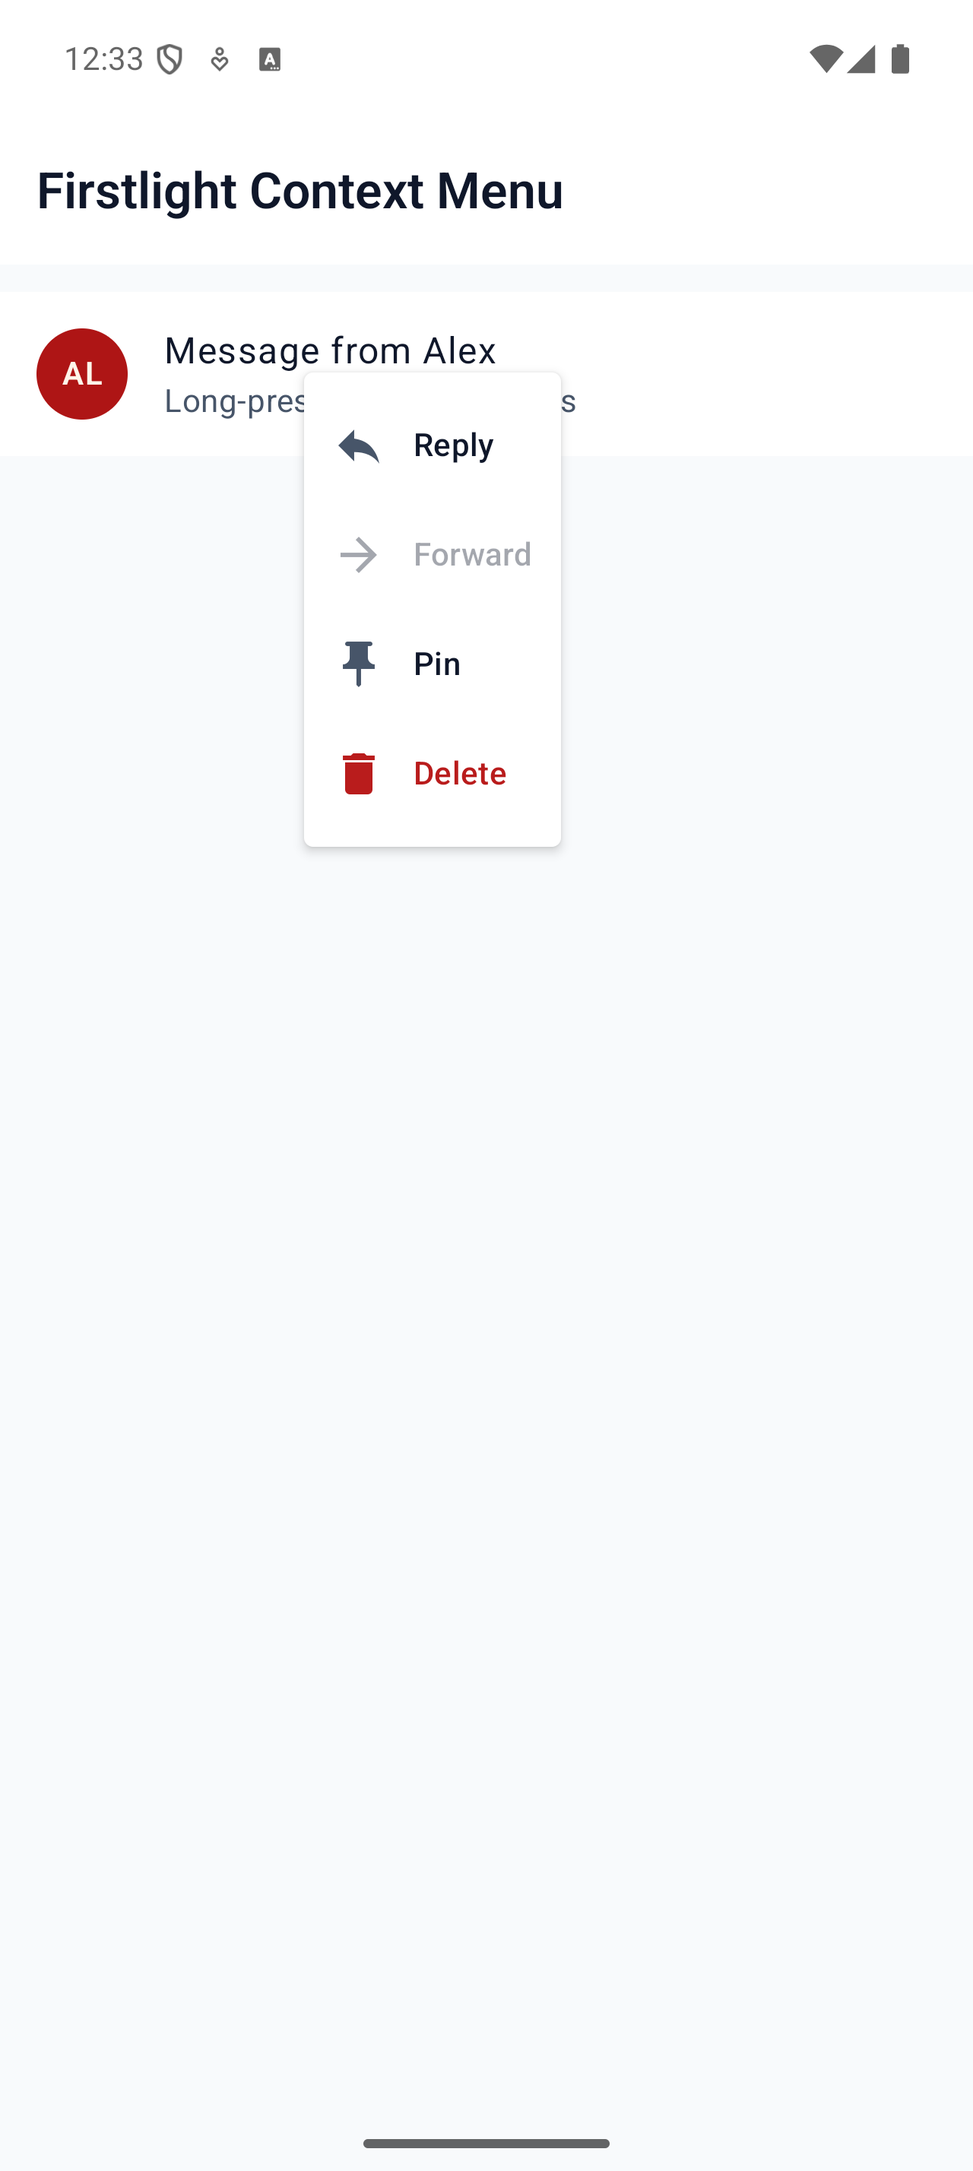
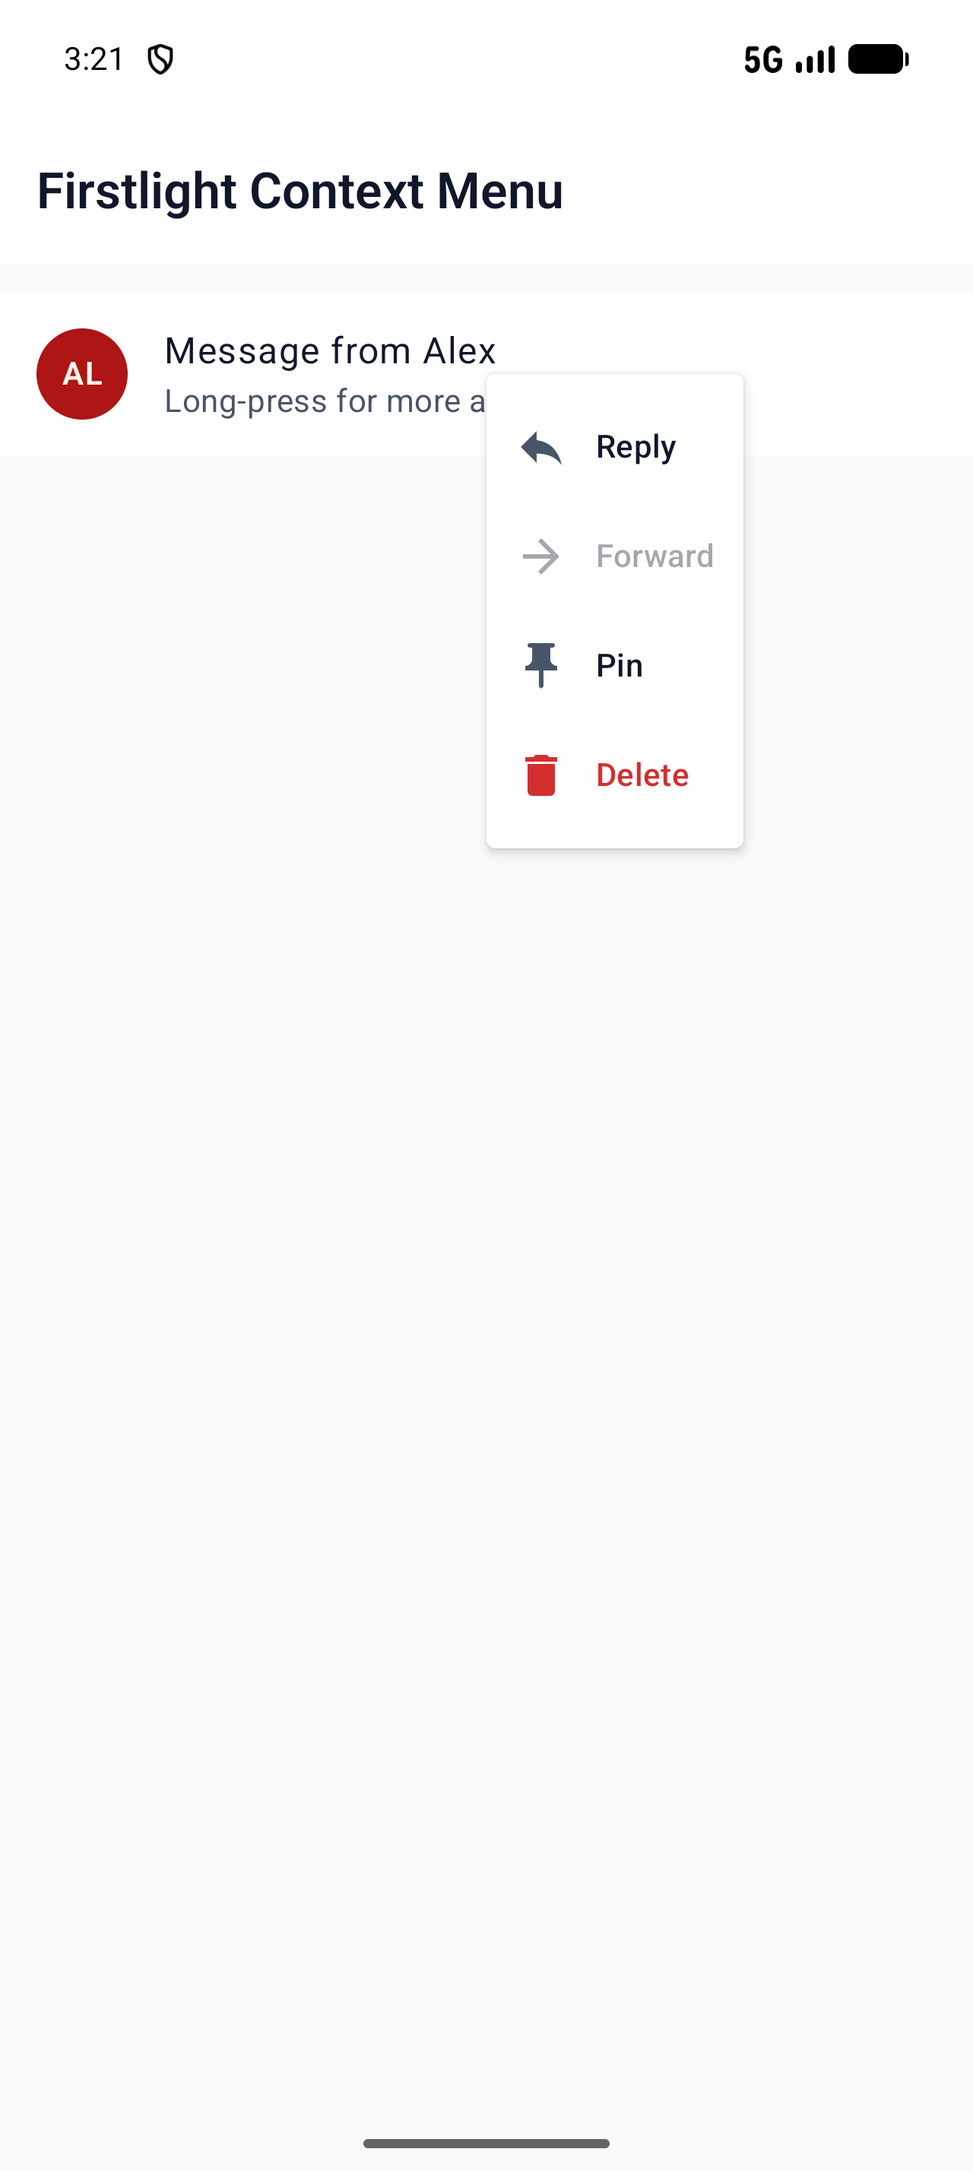
Let docs screenshots long-press, and capture the context menu open
A screenshot manifest entry can declare long-press {text, until}. Before
each capture the guard long-presses the centre of the element labelled
text, then waits for until, such as a menu item, and fails without
publishing when it never shows. iOS finds the element with AXe's
describe-ui and holds axe touch for 1.5 s, since the Simulator has no
input command; Android uses uiautomator bounds and a held input swipe.
Android joins a merged row's text with ". ", iOS with ", ", so both
separators match after the label.

List Item Context Menu uses it, with its real nav title as ready text,
and its four screenshots are recaptured with the menu open, so Android's
Delete shows the new destructive red. The screenshot workflow spec and
skill describe the key.

Amp-Thread-ID: https://ampcode.com/threads/T-01a1dca0-8660-73ca-b541-c07f690843ea

diff --git a/bin/support/DocumentationScreenshotCapture.php b/bin/support/DocumentationScreenshotCapture.php
@@ -101,6 +101,7 @@ final class DocumentationScreenshotCapture
                     "ios-{$appearance}-appearance",
                     ['xcrun', 'simctl', 'ui', $request->iosUdid, 'appearance', $appearance],
                 );
+                $this->openIosLongPress($request->iosUdid, $manifest, "ios-{$appearance}");
                 $this->captureStable(
                     "ios-{$appearance}",
                     ['xcrun', 'simctl', 'io', $request->iosUdid, 'screenshot'],
@@ -115,6 +116,7 @@ final class DocumentationScreenshotCapture
                     ['adb', '-s', $request->androidSerial, 'shell', 'cmd', 'uimode', 'night', $mode],
                 );
                 $this->assertAndroidApplicationForeground($request->androidSerial, $androidAppId, "before {$appearance} capture");
+                $this->openAndroidLongPress($request->androidSerial, $manifest, "android-{$appearance}");
                 $this->captureStable(
                     "android-{$appearance}",
                     ['adb', '-s', $request->androidSerial, 'exec-out', 'screencap', '-p'],
@@ -327,6 +329,7 @@ final class DocumentationScreenshotCapture
                         ['xcrun', 'simctl', 'launch', $request->iosUdid, $androidAppId],
                     );
                     $this->execute("ios-{$appearance}-{$slug}-route-wait", ['sleep', '3']);
+                    $this->openIosLongPress($request->iosUdid, $component['manifest'], "ios-{$appearance}-{$slug}");
                     $this->captureStable(
                         "ios-{$appearance}-{$slug}",
                         ['xcrun', 'simctl', 'io', $request->iosUdid, 'screenshot'],
@@ -363,6 +366,7 @@ final class DocumentationScreenshotCapture
                     );
                     $this->assertAndroidApplicationForeground($request->androidSerial, $androidAppId, "before {$appearance} {$slug} capture");
                     $this->assertAndroidCaptureReady($request->androidSerial, $androidAppId, $component['name'], $component['manifest']);
+                    $this->openAndroidLongPress($request->androidSerial, $component['manifest'], "android-{$appearance}-{$slug}");
                     $this->captureStable(
                         "android-{$appearance}-{$slug}",
                         ['adb', '-s', $request->androidSerial, 'exec-out', 'screencap', '-p'],
@@ -510,6 +514,14 @@ final class DocumentationScreenshotCapture
         }
         if (array_key_exists('ready-text', $entry) && (! is_string($entry['ready-text']) || trim($entry['ready-text']) === '')) {
             throw new RuntimeException("Invalid screenshot readiness text for {$slug}.");
+        }
+        if (array_key_exists('long-press', $entry)) {
+            $press = $entry['long-press'];
+            foreach (['text', 'until'] as $key) {
+                if (! is_array($press) || ! is_string($press[$key] ?? null) || trim($press[$key]) === '') {
+                    throw new RuntimeException("Screenshot long-press for {$slug} needs non-empty `text` and `until` strings.");
+                }
+            }
         }
 
         return [$slug, $entry];
@@ -750,6 +762,134 @@ final class DocumentationScreenshotCapture
         }
 
         throw new RuntimeException("Android capture route did not render: {$title}");
+    }
+
+    /**
+     * Long-presses the element labelled `long-press.text`, such as a List Item
+     * with a context menu, and waits until `long-press.until`, such as one of
+     * the menu's items, is on screen, so the capture shows the menu open. The
+     * Simulator has no input command of its own, so iOS uses AXe
+     * (`brew install cameroncooke/axe/axe`). Nothing happens when `until` is
+     * already showing.
+     *
+     * @param  array<string, mixed>  $manifest
+     */
+    private function openIosLongPress(string $udid, array $manifest, string $label): void
+    {
+        $press = $manifest['long-press'] ?? null;
+        if (! is_array($press)) {
+            return;
+        }
+        if ($this->iosElementCenter($udid, $press['until'], "{$label}-long-press-check") !== null) {
+            return;
+        }
+
+        $center = null;
+        for ($attempt = 1; $attempt <= 10 && $center === null; $attempt++) {
+            if ($attempt > 1) {
+                $this->execute("{$label}-long-press-target-wait-{$attempt}", ['sleep', '1']);
+            }
+            $center = $this->iosElementCenter($udid, $press['text'], "{$label}-long-press-target-{$attempt}");
+        }
+        if ($center === null) {
+            throw new RuntimeException("iOS long-press target is not on screen: {$press['text']}");
+        }
+
+        $this->execute("{$label}-long-press", [
+            'axe', 'touch', '-x', (string) $center[0], '-y', (string) $center[1],
+            '--down', '--up', '--delay', '1.5', '--udid', $udid,
+        ]);
+
+        for ($attempt = 1; $attempt <= 10; $attempt++) {
+            if ($this->iosElementCenter($udid, $press['until'], "{$label}-long-press-open-{$attempt}") !== null) {
+                return;
+            }
+            $this->execute("{$label}-long-press-open-wait-{$attempt}", ['sleep', '1']);
+        }
+
+        throw new RuntimeException("iOS long press did not show: {$press['until']}");
+    }
+
+    /** @return array{0: int, 1: int}|null The centre, in points, of the first element labelled $text. */
+    private function iosElementCenter(string $udid, string $text, string $label): ?array
+    {
+        try {
+            $tree = json_decode($this->execute($label, ['axe', 'describe-ui', '--udid', $udid])['stdout'], true, flags: JSON_THROW_ON_ERROR);
+        } catch (JsonException $exception) {
+            throw new RuntimeException('Unable to parse the iOS accessibility tree.', previous: $exception);
+        }
+
+        $pending = is_array($tree) ? (array_is_list($tree) ? $tree : [$tree]) : [];
+        while ($pending !== []) {
+            $element = array_shift($pending);
+            if (! is_array($element)) {
+                continue;
+            }
+            $name = (string) ($element['AXLabel'] ?? '');
+            $frame = $element['frame'] ?? null;
+            if (($name === $text || str_starts_with($name, $text.',')) && is_array($frame)) {
+                return [
+                    (int) round((float) $frame['x'] + (float) $frame['width'] / 2),
+                    (int) round((float) $frame['y'] + (float) $frame['height'] / 2),
+                ];
+            }
+            array_push($pending, ...(is_array($element['children'] ?? null) ? $element['children'] : []));
+        }
+
+        return null;
+    }
+
+    /**
+     * Android counterpart of openIosLongPress(): a held `input swipe` on the
+     * centre of the node whose text or content description is
+     * `long-press.text`.
+     *
+     * @param  array<string, mixed>  $manifest
+     */
+    private function openAndroidLongPress(string $serial, array $manifest, string $label): void
+    {
+        $press = $manifest['long-press'] ?? null;
+        if (! is_array($press)) {
+            return;
+        }
+        if ($this->androidNodeCenter($serial, $press['until'], "{$label}-long-press-check") !== null) {
+            return;
+        }
+
+        $center = $this->androidNodeCenter($serial, $press['text'], "{$label}-long-press-target");
+        if ($center === null) {
+            throw new RuntimeException("Android long-press target is not on screen: {$press['text']}");
+        }
+
+        [$x, $y] = array_map('strval', $center);
+        $this->execute("{$label}-long-press", ['adb', '-s', $serial, 'shell', 'input', 'swipe', $x, $y, $x, $y, '1500']);
+
+        for ($attempt = 1; $attempt <= 10; $attempt++) {
+            if ($this->androidNodeCenter($serial, $press['until'], "{$label}-long-press-open-{$attempt}") !== null) {
+                return;
+            }
+            $this->execute("{$label}-long-press-open-wait-{$attempt}", ['adb', '-s', $serial, 'shell', 'sleep', '1']);
+        }
+
+        throw new RuntimeException("Android long press did not show: {$press['until']}");
+    }
+
+    /** @return array{0: int, 1: int}|null The centre, in pixels, of the first node labelled $text. */
+    private function androidNodeCenter(string $serial, string $text, string $label): ?array
+    {
+        $hierarchy = $this->execute($label, ['adb', '-s', $serial, 'exec-out', 'uiautomator', 'dump', '/dev/tty'])['stdout'];
+        $escaped = htmlspecialchars($text, ENT_QUOTES | ENT_XML1);
+
+        preg_match_all('/<node\b[^>]*>/', $hierarchy, $nodes);
+        foreach ($nodes[0] as $node) {
+            $named = str_contains($node, 'text="'.$escaped.'"')
+                || preg_match('/content-desc="'.preg_quote($escaped, '/').'(?:[,.][^"]*)?"/', $node) === 1;
+            if ($named && preg_match('/bounds="\[(\d+),(\d+)\]\[(\d+),(\d+)\]"/', $node, $bounds) === 1) {
+                return [intdiv((int) $bounds[1] + (int) $bounds[3], 2), intdiv((int) $bounds[2] + (int) $bounds[4], 2)];
+            }
+        }
+
+        return null;
     }
 
     /** @param array<string, mixed> $manifest */

diff --git a/tests/Feature/DocumentationScreenshotCaptureTest.php b/tests/Feature/DocumentationScreenshotCaptureTest.php
@@ -513,6 +513,125 @@ it('uses manifest readiness text when a modal hides the Android route title', fu
     }
 });
 
+/**
+ * A capture fixture whose Context Menu entry long-presses "Message from Alex"
+ * until "Pin" shows, on a runner whose menu opens only when $opens is true.
+ *
+ * @return array{0: array{package: string, showcase: string}, 1: FakeCaptureCommandRunner}
+ */
+function longPressCaptureFixture(bool $opens = true): array
+{
+    $fixture = screenshotCaptureFixture();
+    $manifestPath = $fixture['package'].'/spec/screenshots.json';
+    $manifest = json_decode((string) file_get_contents($manifestPath), true);
+    $manifest['components']['context-menu'] = [
+        'route' => '/captures/context-menu',
+        'test' => 'php artisan test tests/Feature/ContextMenuCaptureTest.php',
+        'long-press' => ['text' => 'Message from Alex', 'until' => 'Pin'],
+        'outputs' => array_map(
+            fn (string $variant): string => "docs/screenshots/context-menu/{$variant}.png",
+            ['ios-light' => 'ios-light', 'ios-dark' => 'ios-dark', 'android-light' => 'android-light', 'android-dark' => 'android-dark'],
+        ),
+    ];
+    file_put_contents($manifestPath, json_encode($manifest, JSON_PRETTY_PRINT | JSON_UNESCAPED_SLASHES));
+    mkdir($fixture['package'].'/docs/screenshots/context-menu', 0777, true);
+
+    [$normalRunner] = successfulCaptureRunner($fixture);
+    $iosOpen = false;
+    $androidOpen = false;
+    $runner = new FakeCaptureCommandRunner(function (array $command, ?string $cwd) use ($normalRunner, $opens, &$iosOpen, &$androidOpen): array {
+        $ok = fn (string $stdout = ''): array => ['exitCode' => 0, 'stdout' => $stdout, 'stderr' => ''];
+
+        if ($command === ['axe', 'describe-ui', '--udid', 'IOS-1']) {
+            $row = ['AXLabel' => 'Message from Alex, Long-press for more actions', 'frame' => ['x' => 16, 'y' => 100, 'width' => 368, 'height' => 41], 'children' => []];
+            $menu = $iosOpen ? [['AXLabel' => 'Pin', 'frame' => ['x' => 40, 'y' => 300, 'width' => 250, 'height' => 44]]] : [];
+
+            return $ok(json_encode([['AXLabel' => 'Firstlight Showcase', 'frame' => ['x' => 0, 'y' => 0, 'width' => 402, 'height' => 874], 'children' => [$row, ...$menu]]]));
+        }
+        if (array_slice($command, 0, 2) === ['axe', 'touch']) {
+            $iosOpen = $opens;
+
+            return $ok();
+        }
+        if ($command === ['adb', '-s', 'emulator-5554', 'exec-out', 'uiautomator', 'dump', '/dev/tty']) {
+            $menu = $androidOpen ? '<node text="Pin" package="dev.firstlightui.showcase" bounds="[48,900][700,1044]" />' : '';
+
+            return $ok('<hierarchy><node text="Firstlight Context Menu" package="dev.firstlightui.showcase" bounds="[0,100][1080,220]" />'
+                .'<node index="0" text="" content-desc="Message from Alex. Long-press for more actions" package="dev.firstlightui.showcase" bounds="[0,250][1080,351]" />'
+                .$menu.'</hierarchy>');
+        }
+        if (array_slice($command, 0, 6) === ['adb', '-s', 'emulator-5554', 'shell', 'input', 'swipe']) {
+            $androidOpen = $opens;
+
+            return $ok();
+        }
+        if ($command === ['sleep', '1'] || str_contains(implode(' ', $command), 'ContextMenuCaptureTest.php')) {
+            return $ok();
+        }
+
+        return $normalRunner->run($command, $cwd);
+    });
+
+    return [$fixture, $runner];
+}
+
+function contextMenuCaptureRequest(array $fixture): CaptureRequest
+{
+    return new CaptureRequest('ContextMenu', $fixture['package'], $fixture['showcase'], 'IOS-1', 'emulator-5554', false, false);
+}
+
+it('long-presses the manifest target on both platforms and captures the opened menu', function () {
+    [$fixture, $runner] = longPressCaptureFixture();
+
+    try {
+        $report = (new DocumentationScreenshotCapture($runner, $fixture['package']))->capture(contextMenuCaptureRequest($fixture));
+        $commands = array_column($runner->calls, 'command');
+        $iosPresses = array_keys(array_filter($commands, fn (array $command): bool => array_slice($command, 0, 2) === ['axe', 'touch']));
+        $androidPresses = array_keys(array_filter($commands, fn (array $command): bool => array_slice($command, 4, 2) === ['input', 'swipe']));
+        $firstIosShot = array_key_first(array_filter($commands, fn (array $command): bool => array_slice($command, 2, 2) === ['io', 'IOS-1']));
+        $firstAndroidShot = array_key_first(array_filter($commands, fn (array $command): bool => in_array('screencap', $command, true)));
+
+        // The centre of the row's frame and bounds; once open, the menu is not pressed again.
+        expect($iosPresses)->toHaveCount(1)
+            ->and($commands[$iosPresses[0]])->toBe(['axe', 'touch', '-x', '200', '-y', '121', '--down', '--up', '--delay', '1.5', '--udid', 'IOS-1'])
+            ->and($iosPresses[0])->toBeLessThan($firstIosShot)
+            ->and($androidPresses)->toHaveCount(1)
+            ->and($commands[$androidPresses[0]])->toBe(['adb', '-s', 'emulator-5554', 'shell', 'input', 'swipe', '540', '300', '540', '300', '1500'])
+            ->and($androidPresses[0])->toBeLessThan($firstAndroidShot)
+            ->and(array_map('is_file', $report->outputs))->each->toBeTrue();
+    } finally {
+        removeScreenshotCaptureFixture($fixture);
+    }
+});
+
+it('publishes nothing when a long press does not open its menu', function () {
+    [$fixture, $runner] = longPressCaptureFixture(opens: false);
+
+    try {
+        expect(fn () => (new DocumentationScreenshotCapture($runner, $fixture['package']))->capture(contextMenuCaptureRequest($fixture)))
+            ->toThrow(RuntimeException::class, 'iOS long press did not show: Pin')
+            ->and(glob($fixture['package'].'/docs/screenshots/context-menu/*.png'))->toBe([]);
+    } finally {
+        removeScreenshotCaptureFixture($fixture);
+    }
+});
+
+it('rejects a long press without the text that shows it worked', function () {
+    [$fixture, $runner] = longPressCaptureFixture();
+    $manifestPath = $fixture['package'].'/spec/screenshots.json';
+    $manifest = json_decode((string) file_get_contents($manifestPath), true);
+    unset($manifest['components']['context-menu']['long-press']['until']);
+    file_put_contents($manifestPath, json_encode($manifest));
+
+    try {
+        expect(fn () => (new DocumentationScreenshotCapture($runner, $fixture['package']))->capture(contextMenuCaptureRequest($fixture)))
+            ->toThrow(RuntimeException::class, 'needs non-empty `text` and `until`')
+            ->and($runner->calls)->toBe([]);
+    } finally {
+        removeScreenshotCaptureFixture($fixture);
+    }
+});
+
 it('captures multiple components by platform appearance after only one build per platform', function () {
     $fixture = screenshotCaptureFixture();
     $iosContainer = dirname($fixture['package']).'/ios-container';

diff --git a/.agents/skills/firstlight-docs-screenshots/SKILL.md b/.agents/skills/firstlight-docs-screenshots/SKILL.md
@@ -37,7 +37,7 @@ bin/capture-doc-screenshot-batch Component ComponentTwo \
   --android=<emulator-serial>
 ```
 
-The guards verify targets, require generated iOS and Android hosts (`php artisan native:install both` in the showcase), reject physical Android devices, run every focused fixture test, launch exact routes, verify the configured Android application is installed and foregrounded, wait for byte-identical frames or a bounded `0.01%` intentional-animation difference, restore the showcase environment and original appearances, reject identical light/dark output, and publish only complete matrices. Batch capture builds each host once, updates only the installed runtime start URL, cold-launches that same app for each fixture, then captures iOS light, iOS dark, Android light, and Android dark. It enables iOS Reduced Motion before launch and freezes Android's animator-duration scale for deterministic indeterminate states, then restores both exact prior settings and `/` as the installed start route.
+The guards verify targets, require generated iOS and Android hosts (`php artisan native:install both` in the showcase), reject physical Android devices, run every focused fixture test, launch exact routes, verify the configured Android application is installed and foregrounded, wait for byte-identical frames or a bounded `0.01%` intentional-animation difference, restore the showcase environment and original appearances, reject identical light/dark output, and publish only complete matrices. Batch capture builds each host once, updates only the installed runtime start URL, cold-launches that same app for each fixture, then captures iOS light, iOS dark, Android light, and Android dark. An entry with `long-press` (see `spec/workflows/showcase-and-screenshots.md`) is long-pressed before each capture and must show its `until` text; it needs AXe on the Mac for iOS (`brew install cameroncooke/axe/axe`). It enables iOS Reduced Motion before launch and freezes Android's animator-duration scale for deterministic indeterminate states, then restores both exact prior settings and `/` as the installed start route.
 4. Present all four absolute PNG paths as an iOS/Android by light/dark matrix. Inspect selected/disabled/error states, theme, native presentation, crop, labels, truncation, system chrome, and accidental data.
 5. Obtain explicit visual approval. Re-capture rejected images; do not edit an image to conceal a rendering defect.
 6. Regenerate LLM artefacts and run `bin/check-docs --development`. For release mode, record factual revisions, devices/OS, commands, four paths, reviewer/date, and only accessibility or physical-device evidence actually performed under `spec/reviews/`.

diff --git a/spec/workflows/showcase-and-screenshots.md b/spec/workflows/showcase-and-screenshots.md
@@ -30,11 +30,16 @@ A capture fixture must:
 
 - use fixed, neutral authored values with no user, tenant, credential, or time-dependent data;
 - include representative documented states such as selected, disabled, and error where applicable;
-- fit in one phone viewport without interaction or scrolling to reveal required evidence;
+- fit in one phone viewport without scrolling, and without interaction unless the entry declares `long-press`;
 - publish a deterministic native tree that the focused showcase test verifies;
 - use the same authored example on iOS and Android.
 
 Keep broad dogfooding and interaction scenarios in the showcase even when the compact capture route displays only representative states.
+
+An entry may also declare:
+
+- `ready-text`: the Android text that shows the route has rendered, when it is not the default `Firstlight <Component Name>` title, such as a dialog's heading or a shorter nav title.
+- `long-press`: `{ "text": ..., "until": ... }` for state that only a gesture reveals, such as a List Item context menu. Before each capture the guard long-presses the centre of the element whose accessibility label (iOS) or text or content description (Android) is `text`, then waits until `until`, such as a menu item, is on screen. It fails without publishing when `until` never shows. iOS uses [AXe](https://github.com/cameroncooke/AXe) (`brew install cameroncooke/axe/axe`), because the Simulator has no input command of its own; Android uses `adb shell input swipe`.
 
 ## Preconditions
 
